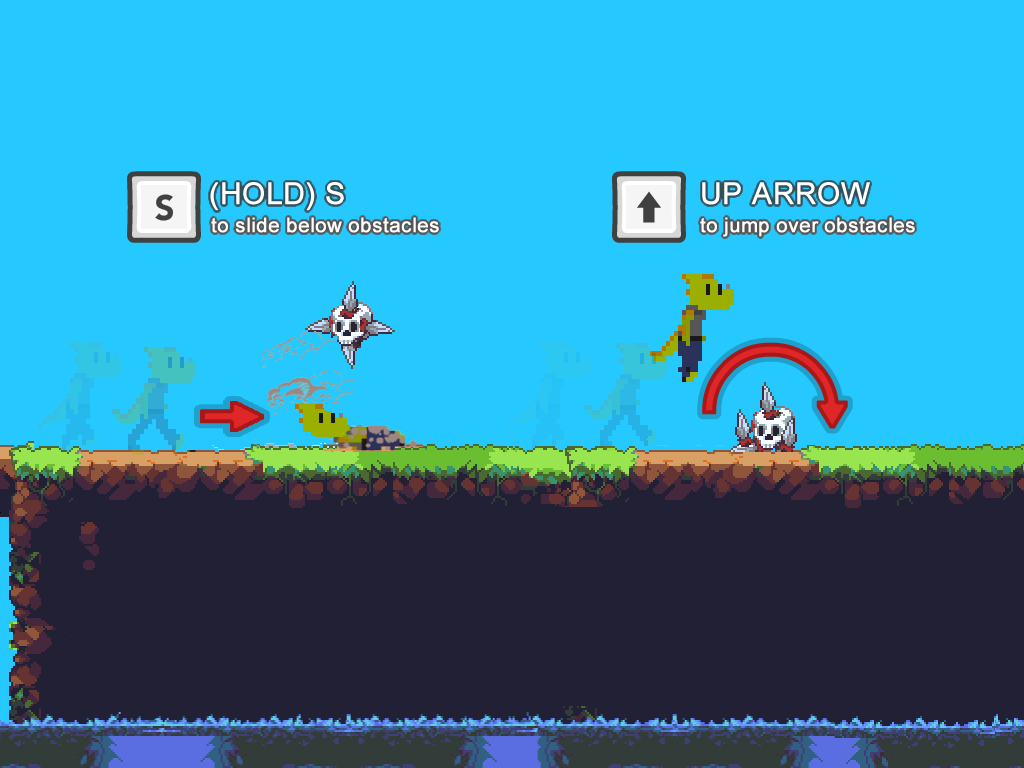
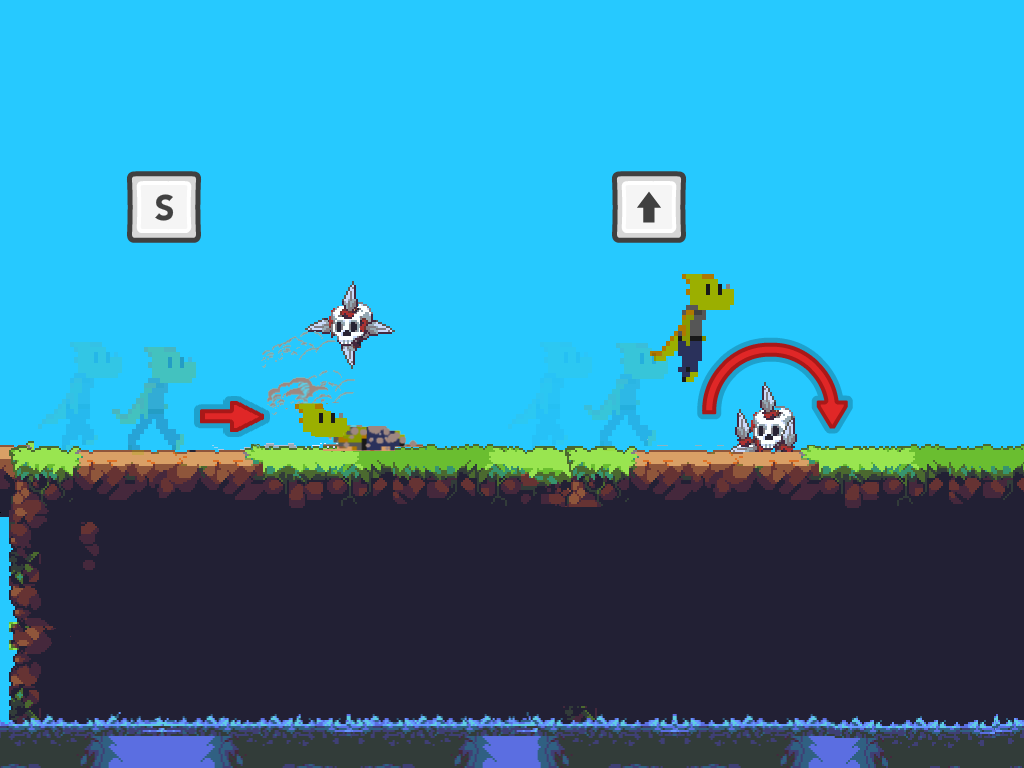
Localize platformer assets

Changed region(s): [[0.6562, 0.2188, 0.9062, 0.3125], [0.1875, 0.2188, 0.4375, 0.3125]]

diff --git a/platformerc/TutorialState.js b/platformerc/TutorialState.js
@@ -12,7 +12,7 @@ TutorialState = function() {
         mTextInstructionJumpKey;
 
 	this.create = function() {
-        var aLocale = GlobalInfo.locale || 'en';
+        var aLocale = GlobalInfo.locale;
         var aTranslation = {
             clickContinue: {en: 'Click anywhere to continue', pt: 'Clique em qualquer lugar para continuar'},
             instructions: {en: 'Instructions', pt: 'Instruções'},
@@ -22,17 +22,17 @@ TutorialState = function() {
             instructionJump: {en: '', pt: 'para pular sobre obstáculos'},
         }
 
-		this.game.stage.backgroundColor = '#5FCDE4';
+		this.game.stage.backgroundColor = '#00D8FF';
 
 		mFigure = this.game.add.sprite(0, 0, 'tutorial');
 		mTextClick = this.game.add.text(this.game.world.centerX, this.game.world.height - 150, aTranslation.clickContinue[aLocale], { font: "26px Arial", fill: "#ffffff", align: "center" });
         mTitle = this.game.add.text(this.game.world.centerX, 50, aTranslation.instructions[aLocale], { font: "Bold 40px Arial", fill: "#000", align: "center" });
         
-        mTextInstructionDash = this.game.add.text(205, 210, aTranslation.instructionDash[aLocale], { font: "22px Arial", fill: "#ffffff", stroke: '#000000', strokeThickness: 3, backgroundColor: '#26C9FF', align: "left" });
-        mTextInstructionDashKey = this.game.add.text(205, 170, aTranslation.instructionDashKey[aLocale], { font: "30px Arial", fill: "#ffffff", stroke: '#000000', strokeThickness: 3, backgroundColor: '#26C9FF', align: "left" });
+        mTextInstructionDash = this.game.add.text(205, 210, aTranslation.instructionDash[aLocale], { font: "22px Arial", fill: "#ffffff", stroke: '#000000', strokeThickness: 3, align: "left" });
+        mTextInstructionDashKey = this.game.add.text(205, 170, aTranslation.instructionDashKey[aLocale], { font: "30px Arial", fill: "#ffffff", stroke: '#000000', strokeThickness: 3, align: "left" });
 
-        mTextInstructionJump = this.game.add.text(690, 210, aTranslation.instructionJump[aLocale], { font: "22px Arial", fill: "#ffffff", stroke: '#000000', strokeThickness: 3, backgroundColor: '#26C9FF', align: "left" });
-        mTextInstructionJumpKey = this.game.add.text(690, 170, aTranslation.instructionJumpKey[aLocale], { font: "30px Arial", fill: "#ffffff", stroke: '#000000', strokeThickness: 3, backgroundColor: '#26C9FF', align: "left" });
+        mTextInstructionJump = this.game.add.text(690, 210, aTranslation.instructionJump[aLocale], { font: "22px Arial", fill: "#ffffff", stroke: '#000000', strokeThickness: 3, align: "left" });
+        mTextInstructionJumpKey = this.game.add.text(690, 170, aTranslation.instructionJumpKey[aLocale], { font: "30px Arial", fill: "#ffffff", stroke: '#000000', strokeThickness: 3, align: "left" });
 
 		mTextClick.anchor.setTo(0.5);
 		mTitle.anchor.setTo(0.5);

diff --git a/platformer/TutorialState.js b/platformer/TutorialState.js
@@ -12,7 +12,7 @@ TutorialState = function() {
         mTextInstructionJumpKey;
 
 	this.create = function() {
-        var aLocale = GlobalInfo.locale || 'en';
+        var aLocale = GlobalInfo.locale;
         var aTranslation = {
             clickContinue: {en: 'Click anywhere to continue', pt: 'Clique em qualquer lugar para continuar'},
             instructions: {en: 'Instructions', pt: 'Instruções'},
@@ -28,11 +28,11 @@ TutorialState = function() {
 		mTextClick = this.game.add.text(this.game.world.centerX, this.game.world.height - 150, aTranslation.clickContinue[aLocale], { font: "26px Arial", fill: "#ffffff", align: "center" });
         mTitle = this.game.add.text(this.game.world.centerX, 50, aTranslation.instructions[aLocale], { font: "Bold 40px Arial", fill: "#000", align: "center" });
         
-        mTextInstructionDash = this.game.add.text(205, 210, aTranslation.instructionDash[aLocale], { font: "22px Arial", fill: "#ffffff", stroke: '#000000', strokeThickness: 3, backgroundColor: '#26C9FF', align: "left" });
-        mTextInstructionDashKey = this.game.add.text(205, 170, aTranslation.instructionDashKey[aLocale], { font: "30px Arial", fill: "#ffffff", stroke: '#000000', strokeThickness: 3, backgroundColor: '#26C9FF', align: "left" });
+        mTextInstructionDash = this.game.add.text(205, 210, aTranslation.instructionDash[aLocale], { font: "22px Arial", fill: "#ffffff", stroke: '#000000', strokeThickness: 3, align: "left" });
+        mTextInstructionDashKey = this.game.add.text(205, 170, aTranslation.instructionDashKey[aLocale], { font: "30px Arial", fill: "#ffffff", stroke: '#000000', strokeThickness: 3, align: "left" });
 
-        mTextInstructionJump = this.game.add.text(690, 210, aTranslation.instructionJump[aLocale], { font: "22px Arial", fill: "#ffffff", stroke: '#000000', strokeThickness: 3, backgroundColor: '#26C9FF', align: "left" });
-        mTextInstructionJumpKey = this.game.add.text(690, 170, aTranslation.instructionJumpKey[aLocale], { font: "30px Arial", fill: "#ffffff", stroke: '#000000', strokeThickness: 3, backgroundColor: '#26C9FF', align: "left" });
+        mTextInstructionJump = this.game.add.text(690, 210, aTranslation.instructionJump[aLocale], { font: "22px Arial", fill: "#ffffff", stroke: '#000000', strokeThickness: 3, align: "left" });
+        mTextInstructionJumpKey = this.game.add.text(690, 170, aTranslation.instructionJumpKey[aLocale], { font: "30px Arial", fill: "#ffffff", stroke: '#000000', strokeThickness: 3, align: "left" });
 
 		mTextClick.anchor.setTo(0.5);
 		mTitle.anchor.setTo(0.5);

diff --git a/platformerc/PlayState.js b/platformerc/PlayState.js
@@ -20,7 +20,7 @@ PlayState = function() {
 		};
 
 	this.create = function() {
-		this.game.stage.backgroundColor = '#5FCDE4';
+		this.game.stage.backgroundColor = '#00D8FF';
 
 		// Init physics
 		this.game.physics.startSystem(Phaser.Physics.ARCADE);
